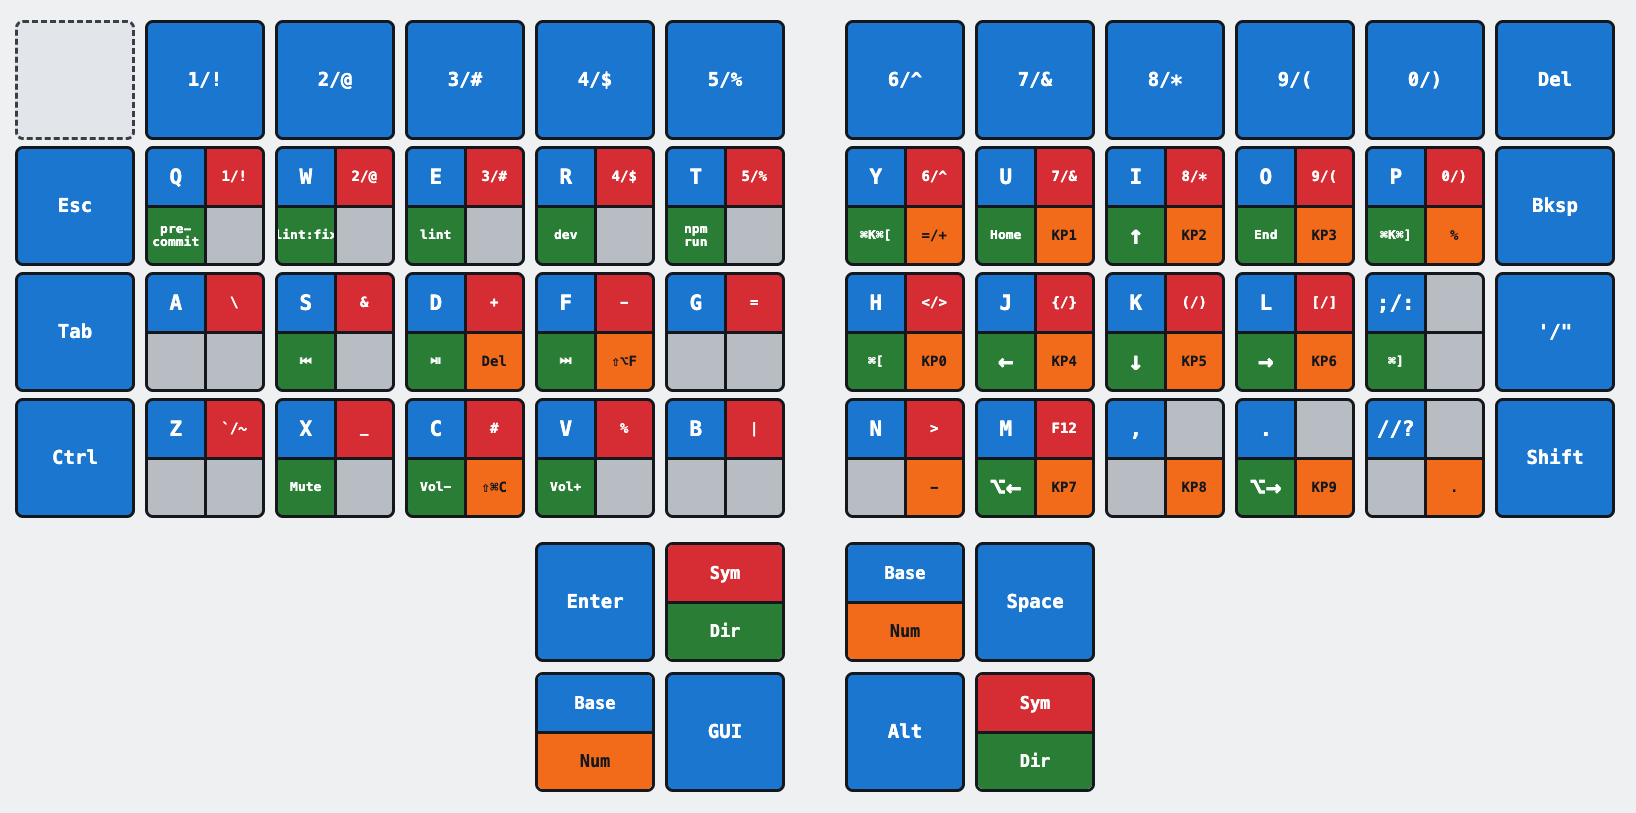
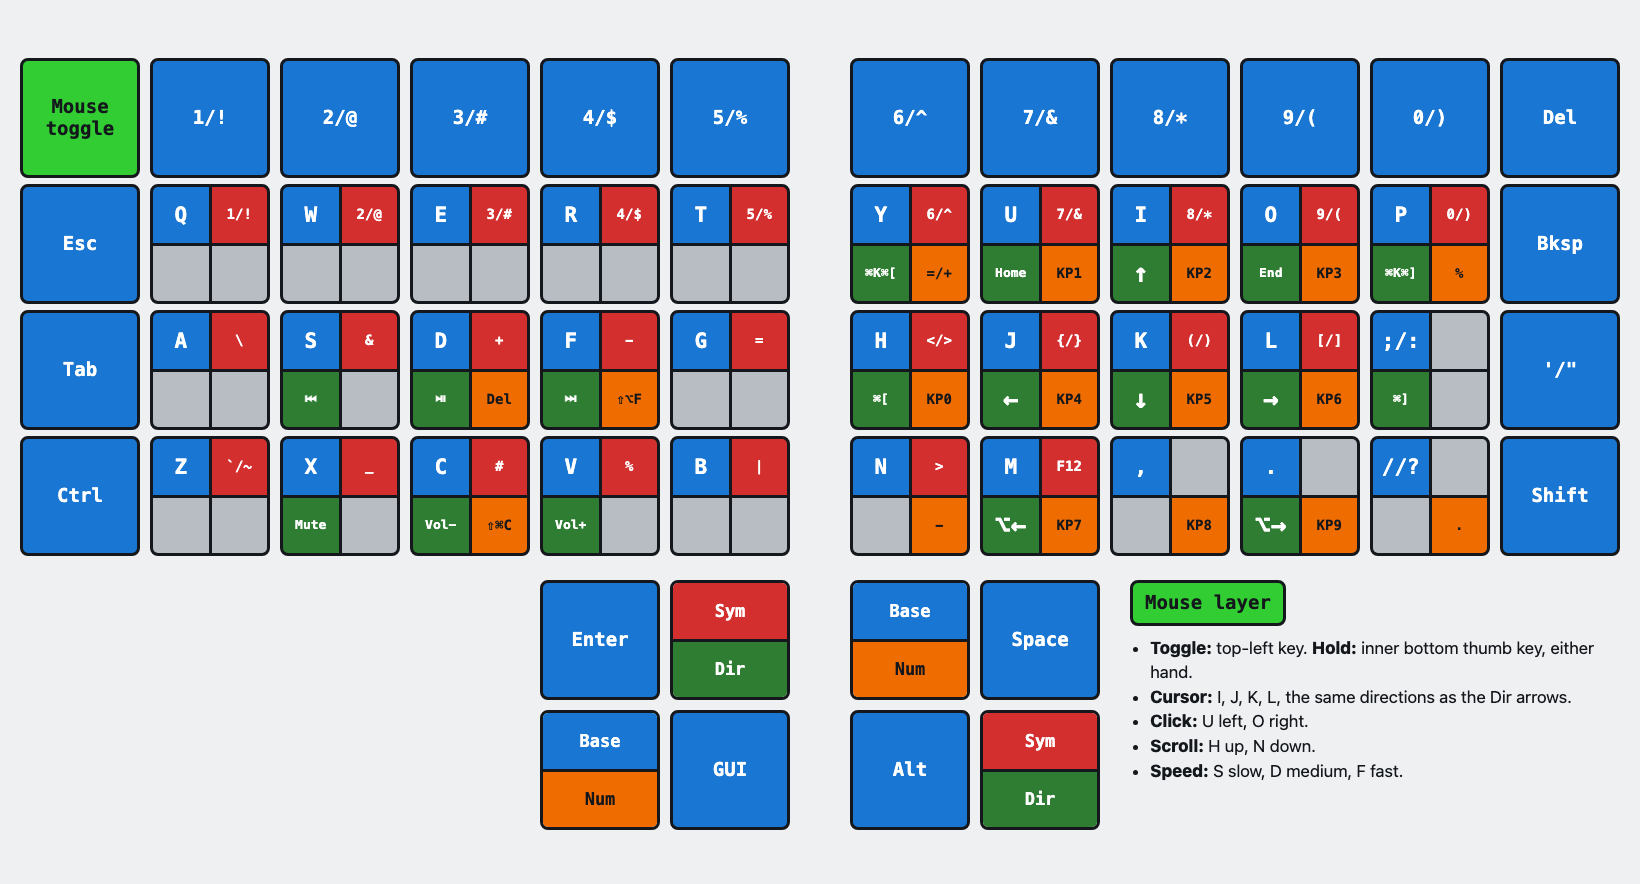
removes text macros and updates layer diagram

diff --git a/docs/keymap-layers.html b/docs/keymap-layers.html
@@ -12,6 +12,7 @@
   --blank-bg:#e2e5e9; --blank-edge:#3a3f47;
   --empty-q: #b8bdc4;
   --sym:#d32f2f; --dir:#2e7d32; --num:#ef6c00;
+  --mouse:#32cd32;
 }
 
 *{box-sizing:border-box;}
@@ -40,6 +41,7 @@ body{
   font-family:ui-monospace,"SF Mono","Cascadia Code",Consolas,monospace;
   font-size:19px; font-weight:900; line-height:1.15; padding:6px;
 }
+.key.solid.mouse{background:var(--mouse); color:var(--ink);}
 .key.blank{background:var(--blank-bg); border:3px dashed var(--blank-edge);}
 .key.quad{
   display:grid; grid-template-columns:1fr 1fr; grid-template-rows:1fr 1fr; gap:3px;
@@ -72,6 +74,17 @@ body{
 .split-half.num{background:var(--num); color:var(--ink);}
 
 .thumb{display:grid; grid-template-columns:repeat(2, 120px); grid-template-rows:repeat(2, 120px); gap:10px; margin-top:18px;}
+
+.hand-bottom{display:flex; justify-content:space-between; align-items:flex-start; gap:30px; width:100%;}
+.notes{width:490px; margin-top:18px; font-size:17px; line-height:1.45;}
+.notes h2{
+  display:inline-block; margin:0 0 10px; padding:6px 12px; border-radius:8px;
+  border:3px solid var(--key-edge); background:var(--mouse); color:var(--ink);
+  font-family:ui-monospace,"SF Mono","Cascadia Code",Consolas,monospace;
+  font-size:19px; font-weight:900;
+}
+.notes ul{margin:0; padding-left:20px;}
+.notes b{font-weight:800;}
 </style>
 </head>
 <body>
@@ -82,7 +95,7 @@ body{
     <div class="hand left">
       <div class="finger-rows">
         <div class="krow">
-          <div class="key solid">Mouse<br/>toggle</div>
+          <div class="key solid mouse">Mouse<br/>toggle</div>
           <div class="key solid">1/!</div>
           <div class="key solid">2/@</div>
           <div class="key solid">3/#</div>
@@ -91,11 +104,11 @@ body{
         </div>
         <div class="krow">
           <div class="key solid">Esc</div>
-          <div class="key quad"><div class="q base">Q</div><div class="q sym">1/!</div><div class="q dir">pre-commit</div><div class="q empty"></div></div>
-          <div class="key quad"><div class="q base">W</div><div class="q sym">2/@</div><div class="q dir">lint:fix</div><div class="q empty"></div></div>
-          <div class="key quad"><div class="q base">E</div><div class="q sym">3/#</div><div class="q dir">lint</div><div class="q empty"></div></div>
-          <div class="key quad"><div class="q base">R</div><div class="q sym">4/$</div><div class="q dir">dev</div><div class="q empty"></div></div>
-          <div class="key quad"><div class="q base">T</div><div class="q sym">5/%</div><div class="q dir">npm run</div><div class="q empty"></div></div>
+          <div class="key quad"><div class="q base">Q</div><div class="q sym">1/!</div><div class="q empty"></div><div class="q empty"></div></div>
+          <div class="key quad"><div class="q base">W</div><div class="q sym">2/@</div><div class="q empty"></div><div class="q empty"></div></div>
+          <div class="key quad"><div class="q base">E</div><div class="q sym">3/#</div><div class="q empty"></div><div class="q empty"></div></div>
+          <div class="key quad"><div class="q base">R</div><div class="q sym">4/$</div><div class="q empty"></div><div class="q empty"></div></div>
+          <div class="key quad"><div class="q base">T</div><div class="q sym">5/%</div><div class="q empty"></div><div class="q empty"></div></div>
         </div>
         <div class="krow">
           <div class="key solid">Tab</div>
@@ -158,11 +171,23 @@ body{
           <div class="key solid">Shift</div>
         </div>
       </div>
-      <div class="thumb">
-        <div class="key split"><div class="split-half base">Base</div><div class="split-half num">Num</div></div>
-        <div class="key solid">Space</div>
-        <div class="key solid">Alt</div>
-        <div class="key split"><div class="split-half sym">Sym</div><div class="split-half dir">Dir</div></div>
+      <div class="hand-bottom">
+        <div class="thumb">
+          <div class="key split"><div class="split-half base">Base</div><div class="split-half num">Num</div></div>
+          <div class="key solid">Space</div>
+          <div class="key solid">Alt</div>
+          <div class="key split"><div class="split-half sym">Sym</div><div class="split-half dir">Dir</div></div>
+        </div>
+        <div class="notes">
+          <h2>Mouse layer</h2>
+          <ul>
+            <li><b>Toggle:</b> top-left key. <b>Hold:</b> inner bottom thumb key, either hand.</li>
+            <li><b>Cursor:</b> I, J, K, L, the same directions as the Dir arrows.</li>
+            <li><b>Click:</b> U left, O right.</li>
+            <li><b>Scroll:</b> H up, N down.</li>
+            <li><b>Speed:</b> S slow, D medium, F fast.</li>
+          </ul>
+        </div>
       </div>
     </div>
   </div>

diff --git a/keyboards/handwired/dactyl_manuform/5x6/keymaps/dactyl_corne/keymap.c b/keyboards/handwired/dactyl_manuform/5x6/keymaps/dactyl_corne/keymap.c
@@ -42,13 +42,8 @@ enum layers {
 };
 
 enum custom_keycodes {
-    U_LINT = SAFE_RANGE,
-    U_DEV,
-    U_COLLAPSE,
+    U_COLLAPSE = SAFE_RANGE,
     U_EXPAND,
-    U_LINT_FIX,
-    U_PRE_COMMIT,
-    U_NPM_RUN,
 };
 
 enum tap_dances {
@@ -241,12 +236,6 @@ bool process_record_user(uint16_t keycode, keyrecord_t *record) {
 
     if (record->event.pressed) {
         switch (keycode) {
-            case U_LINT:
-                SEND_STRING("lint");
-                break;
-            case U_DEV:
-                SEND_STRING("dev");
-                break;
             case U_COLLAPSE:
                 tap_code16(G(KC_K));
                 tap_code16(G(KC_LBRC));
@@ -254,15 +243,6 @@ bool process_record_user(uint16_t keycode, keyrecord_t *record) {
             case U_EXPAND:
                 tap_code16(G(KC_K));
                 tap_code16(G(KC_RBRC));
-                break;
-            case U_LINT_FIX:
-                SEND_STRING("lint:fix");
-                break;
-            case U_PRE_COMMIT:
-                SEND_STRING("pre-commit");
-                break;
-            case U_NPM_RUN:
-                SEND_STRING("npm run ");
                 break;
         }
     }
@@ -296,7 +276,7 @@ const uint16_t PROGMEM keymaps[][MATRIX_ROWS][MATRIX_COLS] = {
 
     [_DIR] = LAYOUT_5x6(
         _______,    _______,      _______,    _______,          _______,          _______,                      _______,       _______,       _______,      _______,        _______,       _______,
-        _______,    U_PRE_COMMIT, U_LINT_FIX, U_LINT,           U_DEV,            U_NPM_RUN,                    U_COLLAPSE,    KC_HOME,       KC_UP,        KC_END,         U_EXPAND,      _______,
+        _______,    _______,      _______,    _______,          _______,          _______,                      U_COLLAPSE,    KC_HOME,       KC_UP,        KC_END,         U_EXPAND,      _______,
         _______,    _______,      KC_MPRV,    KC_MPLY,          KC_MNXT,          _______,                      RGUI(KC_LBRC), KC_LEFT,       KC_DOWN,      KC_RIGHT,       LGUI(KC_RBRC), _______,
         _______,    _______,      KC_MUTE,    KC_VOLD,          KC_VOLU,          _______,                      _______,       RALT(KC_LEFT), _______,      RALT(KC_RIGHT), _______,       _______,
                                   _______,    _______,                                                                                        _______,      _______,

diff --git a/README.md b/README.md
@@ -1,8 +1,7 @@
 # dactyl-corne
 
 A QMK keymap for a handwired Dactyl ManuForm 5x6 — a 64-key split
-keyboard, five layers, with tap dances, combos, text macros and a mouse
-layer.
+keyboard, five layers, with tap dances, combos and a mouse layer.
 
 Keymap source:
 [`keyboards/handwired/dactyl_manuform/5x6/keymaps/dactyl_corne/`](keyboards/handwired/dactyl_manuform/5x6/keymaps/dactyl_corne/)
@@ -38,7 +37,8 @@ layer changes the key; grey means it passes through to Base. The two
 layer keys in each thumb cluster are split top and bottom — top is what
 you get on tap, bottom is what you get on hold.
 
-The mouse layer is not on the diagram.
+The mouse toggle key is lime green. The mouse layer's bindings are listed
+as text beside the right thumb cluster.
 
 ## Layers
 
@@ -73,15 +73,7 @@ backtick/tilde, underscore, `#`, `%` and pipe under the left.
 ### Dir
 
 Arrow cluster on I/J/K/L with Home and End beside it. Media transport
-and volume under the left hand. Text macros on the left top row:
-
-| Key | Types        |
-| --- | ------------ |
-| Q   | `pre-commit` |
-| W   | `lint:fix`   |
-| E   | `lint`       |
-| R   | `dev`        |
-| T   | `npm run `   |
+and volume under the left hand.
 
 Y and P send editor fold and unfold (`⌘K ⌘[` and `⌘K ⌘]`).
 
